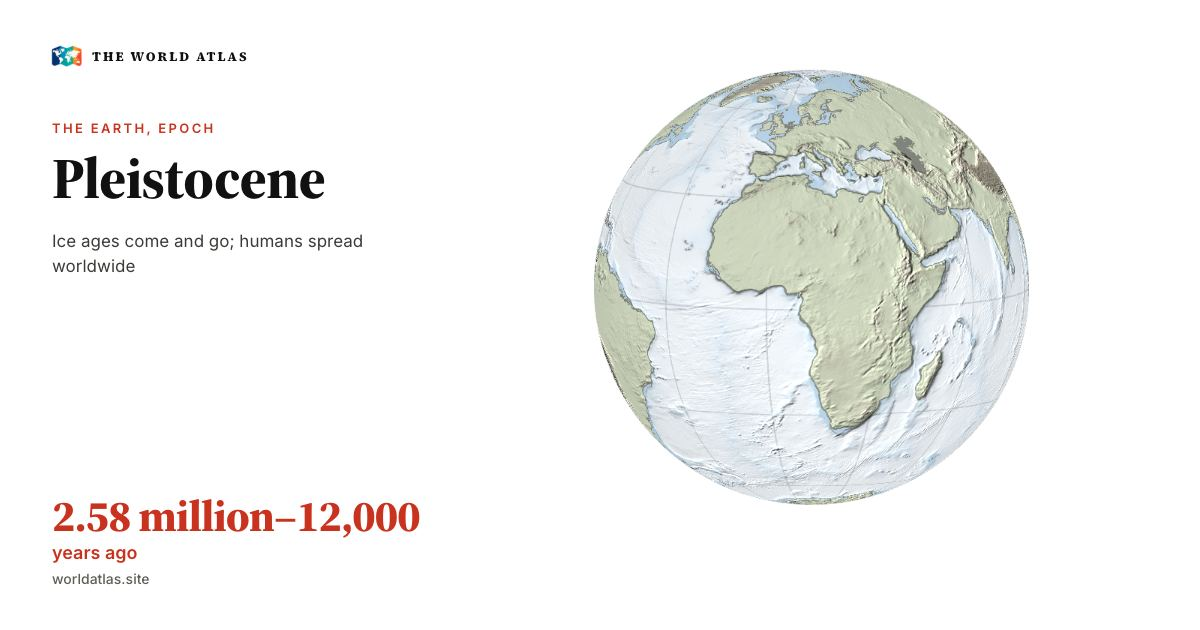
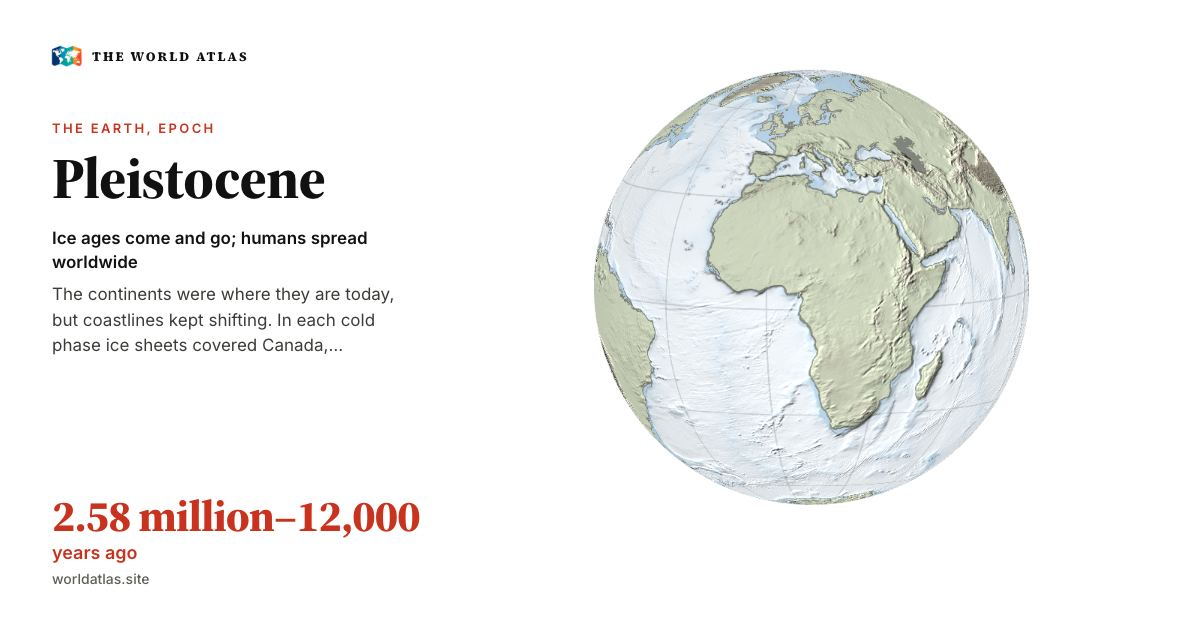
Earth history page: share on its card and stories; the Earth's share pictures carry two or three lines of text
The page uses the same dialog (share.js) and shares the pages of the main atlas: the period, the story, or itself for the last
12,000 years. A period's picture shows its tagline and the opening of its text.

Changed region(s): [[0.0308, 0.3619, 0.3392, 0.573]]

diff --git a/public/earth-history/earth.js b/public/earth-history/earth.js
@@ -397,6 +397,14 @@ function imStep(d) { // earlier or later time (a story: chapter)
 function imPlayIcon() { $("#imPlayIcon").setAttribute("d", IM.auto ? "M7 5h4v14H7zM13 5h4v14h-4z" : "M8 5v14l11-7z"); $("#imPlay").setAttribute("aria-label", IM.auto ? "Pause the slideshow" : "Play the slideshow"); }
 
 // ---------------------------------------------------------------- stories: one thread of the Earth's history in chapters
+// Share (../share.js): the plain page of the story or of the period the reader is in, each with its own picture (tools/seo.py);
+// the last 12,000 years have no period page, so there this page itself.
+function share(opener) {
+  const u = unitAt(S.ma);
+  atlasShare(ST ? { path: `earth/stories/${ST.story.id}/`, pic: `earth/story-${ST.story.id}`, title: ST.story.title }
+    : u.id === "holocene" ? { path: "earth-history/", pic: "earth/earth-history", title: "Earth history" }
+    : { path: `earth/${u.id}/`, pic: `earth/${u.id}`, title: `The Earth in the ${u.name}` }, opener);
+}
 let ST = null; // { story, i, t }
 function storyCards() {
   const S2 = D.stories || [];
@@ -482,6 +490,7 @@ function renderStory() {
   const refs = (c.refs || []).map((r) => { const [t, id] = r.split(":"), it = t === "e" ? D.events.find((e) => e.id === id) : D.origins.find((o) => o.id === id); return it ? { t: t === "e" ? "event" : "origin", it } : null; }).filter(Boolean);
   $("#story").innerHTML = `<button type="button" class="x" data-act="end" aria-label="Leave this moment">${'<svg viewBox="0 0 24 24" aria-hidden="true"><path d="M6 6l12 12M18 6 6 18"/></svg>'}</button>
     <p class="skick">${esc(s.title)}<span>Chapter ${ST.i + 1} of ${n}</span></p>
+    <button type="button" class="hshare" data-act="share" aria-label="Share this story"><svg viewBox="0 0 24 24" aria-hidden="true"><path d="M12 3v12M7 8l5-5 5 5"/><path d="M5 13v6a2 2 0 0 0 2 2h10a2 2 0 0 0 2-2v-6"/></svg></button>
     <div class="sprog"><i style="width:${(ST.i + 1) / n * 100}%"></i></div>
     <h1>${esc(c.title)}</h1>
     <p class="swhen">${esc(c.dateLabel || ageText(c.ma))}${c.place ? `. ${esc(c.place)}` : ""}</p>
@@ -828,7 +837,8 @@ function wire() {
   $("#storiesBtn").addEventListener("click", openStories); $("#storiesTab").addEventListener("click", openStories);
   $("#storyList").addEventListener("click", (e) => { const c = e.target.closest("[data-s]"), f = e.target.closest("[data-f]"), fx = e.target.closest("[data-fx]");
     if (f) forceShow(+f.dataset.f); else if (fx) forceGo(+fx.dataset.fx); else if (c) storyStart(c.dataset.s); else if (e.target.id === "storyList" || e.target.closest("#storyListClose")) $("#storyList").hidden = true; });
-  $("#story").addEventListener("click", (e) => { const a = e.target.closest("[data-act]"), r = e.target.closest("[data-ref]");
+  $("#nowShare").addEventListener("click", (e) => share(e.currentTarget));
+  $("#story").addEventListener("click", (e) => { const a = e.target.closest("[data-act]"), r = e.target.closest("[data-ref]"); if (a?.dataset.act === "share") return share(a);
     if (r) { const x = storyRefs[+r.dataset.ref]; select(x.t, x.it, false); return; }
     if (!a) return; setPlaying(false); if (a.dataset.act === "prev") storyGo(ST.i - 1); else if (a.dataset.act === "next") storyGo(ST.i + 1); else storyEnd(); });
   $("#sBar").addEventListener("click", (e) => { const b = e.target.closest("[data-c]"); if (b) { setPlaying(false); storyGo(+b.dataset.c); } });

diff --git a/public/earth-history/earth.css b/public/earth-history/earth.css
@@ -581,3 +581,15 @@ body.immersed #bar, body.immersed #tabbar { visibility: hidden; }
 /* phones: the age is already in big type on the card (and on the life chart's pill), so the label above the timeline, which ran over the
    turning-point markers, is left out */
 @media (max-width: 760px) { #cursorLabel { display: none; } }
+
+/* share (../share.js): a small round button on the card and beside a story's close button; the dialog's colours in the Space view */
+.nowhead { display: flex; align-items: center; justify-content: space-between; gap: 12px; }
+.hshare { flex: none; width: 32px; height: 32px; display: grid; place-items: center; border: 1px solid var(--rule); border-radius: 50%; color: var(--ink); }
+.hshare:hover { background: rgba(244, 239, 230, .12); }
+.hshare svg { width: 15px; height: 15px; }
+.nowhead .hshare { position: relative; margin: -6px 0; }
+.hshare::before { content: ""; position: absolute; inset: -6px; } /* a larger area to tap */
+#story .hshare::before { inset: -8px -4px; }
+#story .hshare { position: absolute; top: 0; right: 40px; width: 28px; height: 28px; }
+#story .skick { margin-right: 80px; }
+#share { --surf: #0d1322; --chip: rgba(244, 239, 230, .1); --rule-2: rgba(244, 239, 230, .28); --btn: #f4efe6; --btn-ink: #04060c; --shadow: 0 10px 30px rgba(0, 0, 0, .5); }

diff --git a/public/earth-history/index.html b/public/earth-history/index.html
@@ -26,6 +26,7 @@
 <link rel="stylesheet" href="earth.css">
 <link rel="stylesheet" href="atlas.css">
 <link rel="stylesheet" href="../report/report.css">
+<link rel="stylesheet" href="../share.css">
 <script src="../release.js" defer></script>
 </head>
 <body>
@@ -46,7 +47,7 @@
   </header>
 
   <section id="now" aria-live="polite">
-    <div class="kicker" id="nowKick">The Earth</div>
+    <div class="nowhead"><div class="kicker" id="nowKick">The Earth</div><button type="button" class="hshare" id="nowShare" aria-label="Share this time"><svg viewBox="0 0 24 24" aria-hidden="true"><path d="M12 3v12M7 8l5-5 5 5"/><path d="M5 13v6a2 2 0 0 0 2 2h10a2 2 0 0 0 2-2v-6"/></svg></button></div>
     <div class="age"><b id="ageNum"></b><span id="ageUnit"></span></div>
     <h1 id="unitName"></h1>
     <p id="unitLine" class="line"></p>
@@ -171,6 +172,7 @@
   <div id="loading">Loading the Earth…</div>
 </div>
 <noscript><p style="padding:24px;font:16px system-ui">This page draws a globe of the ancient Earth and needs JavaScript. <a href="../">Back to The World Atlas</a>.</p></noscript>
+<script src="../share.js"></script>
 <script src="earth.js"></script>
 <script src="../report/report.js" data-page="earth" defer></script>
 </body>

diff --git a/public/earth-history/atlas.css b/public/earth-history/atlas.css
@@ -291,3 +291,8 @@ body.light .fopen .mrow:hover .mt b, body.light .fopen .src a:hover { color: var
   body.light .lcur { left: calc(12px + var(--nw) + 8px); }
   body.light .lspan button { padding: 0 9px; font-size: 12px; }
 }
+
+body.light .hshare { border-color: var(--rule-2); background: #fff; }
+body.light .hshare:hover { background: var(--chip); }
+body.light #story .hshare { top: 14px; right: 50px; }
+body.light #share { --surf: #fff; --chip: #f0f0ec; --rule-2: #c9c9c4; --btn: #111; --btn-ink: #fff; --shadow: 0 10px 30px rgba(0, 0, 0, .12); }
